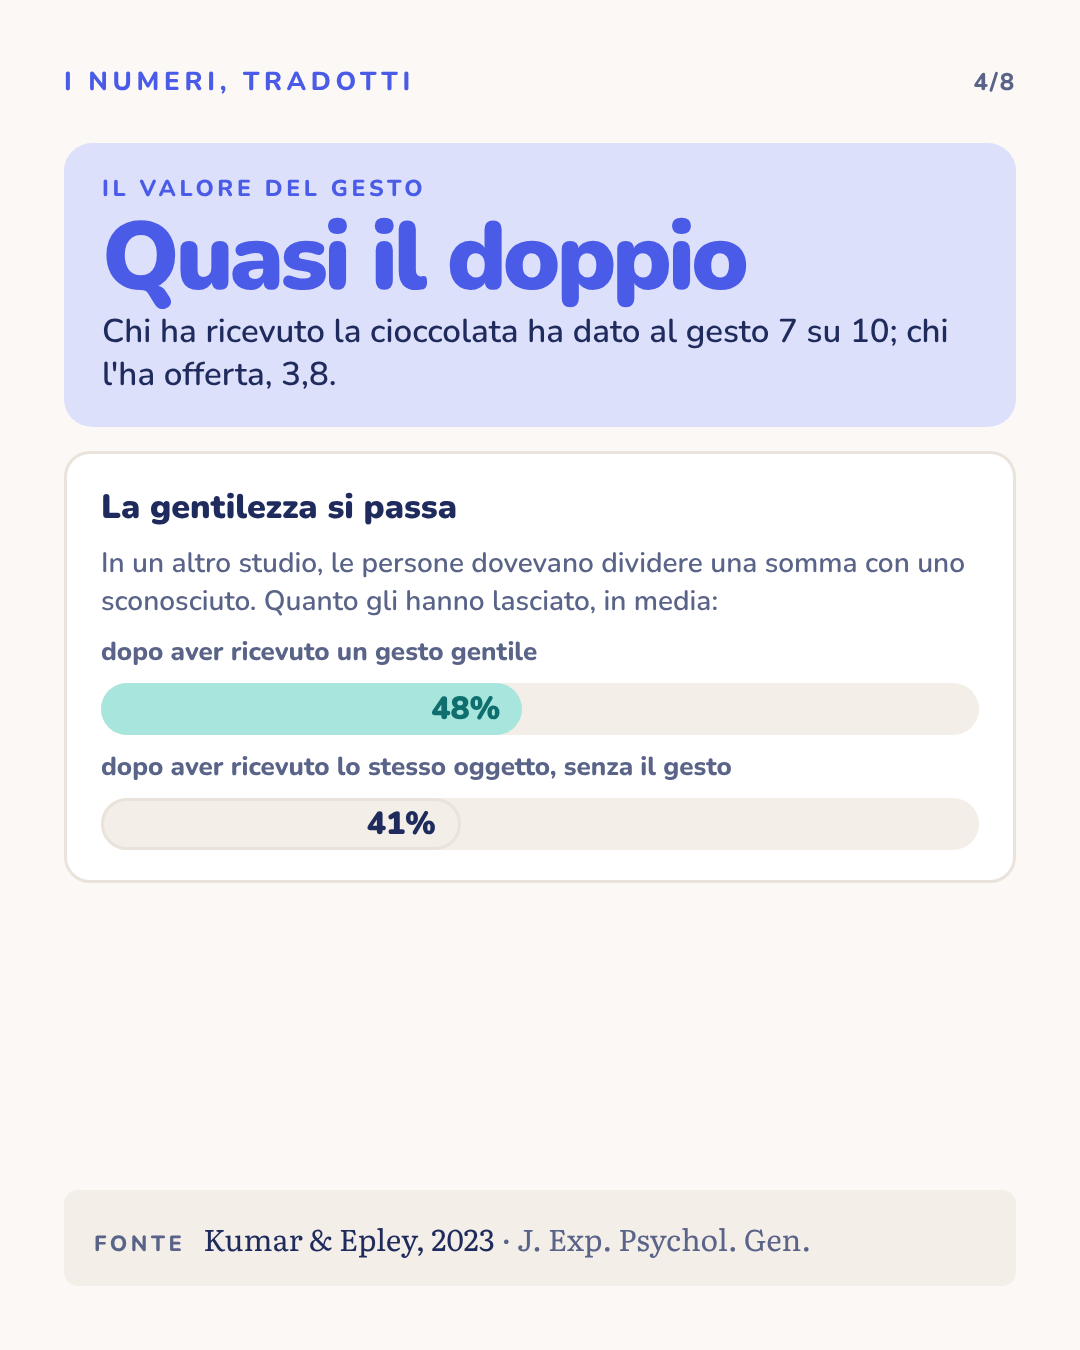
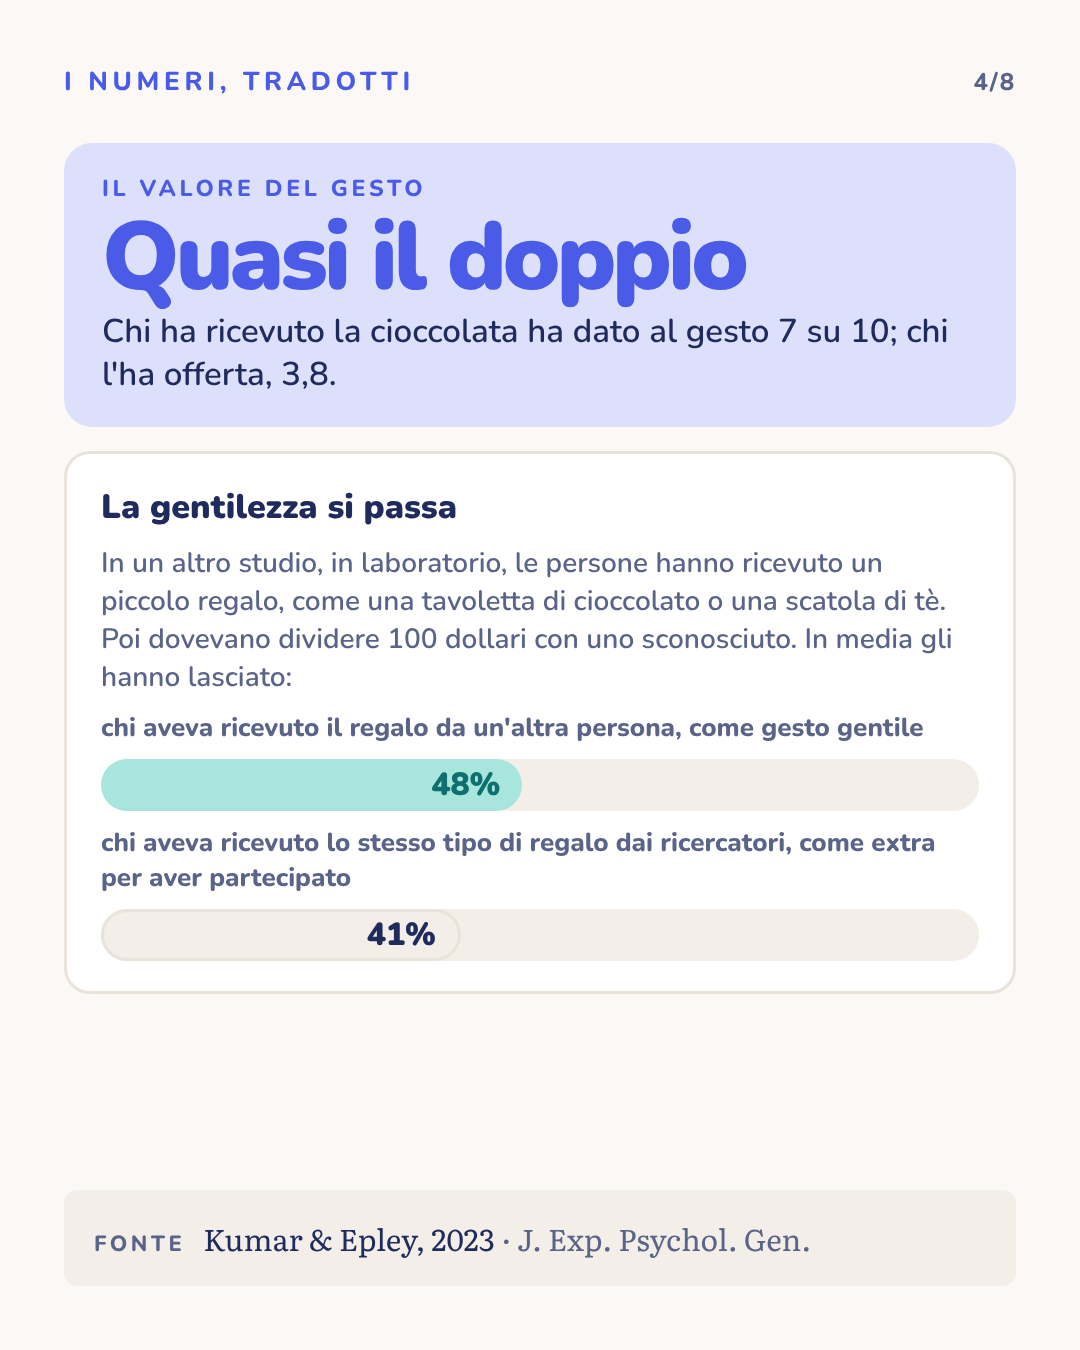
Carosello gentilezza: slide 4 spiega quale regalo e da chi
Claude-Session: https://claude.ai/code/session_01KYQeP73Zvn8PeP6zhkL2Sc

Changed region(s): [[0.0917, 0.4044, 0.8861, 0.7156]]

diff --git a/carosselli/gentilezza/slides.html b/carosselli/gentilezza/slides.html
@@ -155,10 +155,10 @@ svg.shape{position:absolute;z-index:1}
     <div class="stat2 pr"><span class="k">Il valore del gesto</span><span class="num" style="font-size:96px">Quasi il doppio</span><p>Chi ha ricevuto la cioccolata ha dato al gesto 7 su 10; chi l'ha offerta, 3,8.</p></div>
     <div class="cmpb">
       <span class="lb" style="font-size:34px;font-weight:900">La gentilezza si passa</span>
-      <span class="lb" style="font-size:28px;font-weight:600;color:var(--muted)">In un altro studio, le persone dovevano dividere una somma con uno sconosciuto. Quanto gli hanno lasciato, in media:</span>
-      <span class="lb" style="font-size:26px;color:var(--muted)">dopo aver ricevuto un gesto gentile</span>
+      <span class="lb" style="font-size:28px;font-weight:600;color:var(--muted)">In un altro studio, in laboratorio, le persone hanno ricevuto un piccolo regalo, come una tavoletta di cioccolato o una scatola di tè. Poi dovevano dividere 100 dollari con uno sconosciuto. In media gli hanno lasciato:</span>
+      <span class="lb" style="font-size:26px;color:var(--muted)">chi aveva ricevuto il regalo da un'altra persona, come gesto gentile</span>
       <div class="tr"><div class="fl" style="width:48%;background:var(--teal-soft);color:var(--teal-text)">48%</div></div>
-      <span class="lb" style="font-size:26px;color:var(--muted)">dopo aver ricevuto lo stesso oggetto, senza il gesto</span>
+      <span class="lb" style="font-size:26px;color:var(--muted)">chi aveva ricevuto lo stesso tipo di regalo dai ricercatori, come extra per aver partecipato</span>
       <div class="tr"><div class="fl" style="width:41%;background:var(--sunk);color:var(--ink);border:3px solid var(--line)">41%</div></div>
     </div>
   </div>

diff --git a/carosselli/gentilezza/body.html b/carosselli/gentilezza/body.html
@@ -80,10 +80,10 @@
     <div class="stat2 pr"><span class="k">Il valore del gesto</span><span class="num" style="font-size:96px">Quasi il doppio</span><p>Chi ha ricevuto la cioccolata ha dato al gesto 7 su 10; chi l'ha offerta, 3,8.</p></div>
     <div class="cmpb">
       <span class="lb" style="font-size:34px;font-weight:900">La gentilezza si passa</span>
-      <span class="lb" style="font-size:28px;font-weight:600;color:var(--muted)">In un altro studio, le persone dovevano dividere una somma con uno sconosciuto. Quanto gli hanno lasciato, in media:</span>
-      <span class="lb" style="font-size:26px;color:var(--muted)">dopo aver ricevuto un gesto gentile</span>
+      <span class="lb" style="font-size:28px;font-weight:600;color:var(--muted)">In un altro studio, in laboratorio, le persone hanno ricevuto un piccolo regalo, come una tavoletta di cioccolato o una scatola di tè. Poi dovevano dividere 100 dollari con uno sconosciuto. In media gli hanno lasciato:</span>
+      <span class="lb" style="font-size:26px;color:var(--muted)">chi aveva ricevuto il regalo da un'altra persona, come gesto gentile</span>
       <div class="tr"><div class="fl" style="width:48%;background:var(--teal-soft);color:var(--teal-text)">48%</div></div>
-      <span class="lb" style="font-size:26px;color:var(--muted)">dopo aver ricevuto lo stesso oggetto, senza il gesto</span>
+      <span class="lb" style="font-size:26px;color:var(--muted)">chi aveva ricevuto lo stesso tipo di regalo dai ricercatori, come extra per aver partecipato</span>
       <div class="tr"><div class="fl" style="width:41%;background:var(--sunk);color:var(--ink);border:3px solid var(--line)">41%</div></div>
     </div>
   </div>

diff --git a/carosselli/gentilezza/kit-pubblicazione-gentilezza.md b/carosselli/gentilezza/kit-pubblicazione-gentilezza.md
@@ -35,7 +35,7 @@ Qual è il piccolo gesto che farai oggi? 👇
 ```
 📚 Fonte: Kumar A., Epley N. (2023). A little good goes an unexpectedly long way: Underestimating the positive impact of kindness on recipients. Journal of Experimental Psychology: General, 152(1), 236–252. https://doi.org/10.1037/xge0001271
 
-Come abbiamo tradotto i numeri: nello studio della cioccolata calda (75 coppie), chi ha fatto il gesto ha valutato quanto fosse «grande» con una media di 3,8 su una scala da 0 a 10, chi l'ha ricevuto con una media di 7,0: «quasi il doppio» (7,0 ÷ 3,8 ≈ 1,9). Nello studio sulla generosità, le persone dovevano dividere 100 dollari con uno sconosciuto: chi aveva appena ricevuto un gesto gentile ne ha lasciati in media 48, chi aveva ricevuto lo stesso oggetto senza il gesto 41, cioè il 48% contro il 41%.
+Come abbiamo tradotto i numeri: nello studio della cioccolata calda (75 coppie), chi ha fatto il gesto ha valutato quanto fosse «grande» con una media di 3,8 su una scala da 0 a 10, chi l'ha ricevuto con una media di 7,0: «quasi il doppio» (7,0 ÷ 3,8 ≈ 1,9). Nello studio sulla generosità, le persone dovevano dividere 100 dollari con uno sconosciuto: chi aveva appena ricevuto un piccolo regalo da un'altra persona, come gesto gentile, ne ha lasciati in media 48; chi aveva ricevuto lo stesso tipo di regalo dai ricercatori, come extra per aver partecipato, 41: cioè il 48% contro il 41%.
 ```
 
 ## Testo alternativo (una riga per immagine)
@@ -43,7 +43,7 @@ Come abbiamo tradotto i numeri: nello studio della cioccolata calda (75 coppie),
 1. Copertina WeSelf: due cerchi, «chi lo fa» in blu e «chi lo riceve» in verde, uniti da un arco su cui viaggia un piccolo cuore arancione; intorno a chi riceve si allargano tre grandi cerchi concentrici, molto più ampi di quello intorno a chi fa il gesto, e arrivano fino a una terza persona. Testo: «Un piccolo gesto conta più di quanto pensi. C'è chi rinuncia a un gesto gentile perché gli sembra troppo piccolo. Una ricerca ha confrontato l'intensità percepita da chi il gesto lo fa e da chi lo riceve.»
 2. La ricerca: 8 studi negli Stati Uniti su piccoli gesti di gentilezza, come offrire un caffè, dare un passaggio, portare dei fiori, regalare dolci o una cioccolata calda. Dopo ogni gesto, chi lo aveva fatto ha detto quanto pensava che l'altra persona si sarebbe sentita bene; chi lo aveva ricevuto ha detto come si sentiva davvero.
 3. Alla pista di pattinaggio: in un parco, 75 persone hanno regalato una cioccolata calda a uno sconosciuto. Su una scala da 0 a 10, il gesto valeva 3,8 per chi lo ha fatto e 7 per chi lo ha ricevuto. Chi l'ha ricevuta si è sentito meglio di quanto aveva previsto chi l'aveva offerta.
-4. I numeri, tradotti. Il valore del gesto: quasi il doppio; chi ha ricevuto la cioccolata ha dato al gesto 7 su 10, chi l'ha offerta 3,8. La gentilezza si passa: in un altro studio, le persone dovevano dividere una somma con uno sconosciuto; in media gli hanno lasciato il 48% dopo aver ricevuto un gesto gentile e il 41% dopo aver ricevuto lo stesso oggetto senza il gesto (due barre a confronto).
+4. I numeri, tradotti. Il valore del gesto: quasi il doppio; chi ha ricevuto la cioccolata ha dato al gesto 7 su 10, chi l'ha offerta 3,8. La gentilezza si passa: in un altro studio, in laboratorio, le persone hanno ricevuto un piccolo regalo, come una tavoletta di cioccolato o una scatola di tè, e poi dovevano dividere 100 dollari con uno sconosciuto. In media gli hanno lasciato il 48% se avevano ricevuto il regalo da un'altra persona come gesto gentile, e il 41% se avevano ricevuto lo stesso tipo di regalo dai ricercatori come extra per aver partecipato (due barre a confronto).
 5. Perché lo sottovalutiamo: chi riceve sente anche il calore dell'intenzione; il gesto fa bene anche a chi lo fa; più le persone pensavano che il gesto avrebbe fatto piacere, più erano disposte a farlo; in uno studio i partecipanti hanno detto di fare gesti gentili meno spesso di quanto avrebbero voluto.
 6. Mito o realtà: «Un piccolo gesto non cambia niente.» È un mito: in tutti gli studi in cui è stato misurato, chi ha ricevuto un gesto gentile lo ha trovato più importante di quanto pensasse chi lo faceva, e si è sentito meglio del previsto.
 7. I limiti: partecipanti statunitensi; umore misurato subito dopo il gesto, con questionari; in due studi non tutte le persone che avevano ricevuto il gesto hanno risposto; il motivo dell'effetto è stato confermato solo in parte.
@@ -54,7 +54,7 @@ Come abbiamo tradotto i numeri: nello studio della cioccolata calda (75 coppie),
 - **Fonte letta per intero:** il manoscritto accettato («in press») pubblicato dagli autori su PsyArXiv/OSF e fornito dal fondatore (56 pagine). I dati bibliografici della versione pubblicata (volume 152, numero 1, pagine 236–252, gennaio 2023) vengono da Crossref; l'abstract su PubMed (PMID 35980709) coincide con quello del manoscritto.
 - **«8 studi»:** l'articolo riporta gli esperimenti 1a, 1b, 2a, 2b, 3, 4, 5a e 5b. Gli studi 5a e 5b misurano solo le aspettative e la disponibilità a fare il gesto, non l'esperienza di chi lo riceve: per questo la slide 6 dice «in tutti gli studi in cui è stato misurato».
 - **Cioccolata calda (studio 2a):** 84 persone reclutate in una pista di pattinaggio di un parco cittadino; 9 hanno tenuto la cioccolata, 75 l'hanno regalata. Valutazione del gesto: 3,76 per chi l'ha offerta, 7,00 per chi l'ha ricevuta.
-- **48% contro 41% (studio 4):** dollari lasciati a uno sconosciuto su 100 da dividere, 48,02 contro 41,20 in media; chi aveva fatto il gesto ha previsto, in media, 40,85.
+- **48% contro 41% (studio 4):** dollari lasciati a uno sconosciuto su 100 da dividere, 48,02 contro 41,20 in media; chi aveva fatto il gesto ha previsto, in media, 40,85. Il regalo era uno degli oggetti del «negozio del laboratorio» (tavoletta di cioccolato equosolidale, popcorn, tè, cracker, burrocacao). Nel gruppo di confronto, le persone hanno ricevuto il regalo come compenso extra inatteso e lo hanno scelto da sole.
 - **«Molti vorrebbero farlo più spesso»:** studio 1a (106 studenti di un master in gestione d'impresa, 192 gesti), risposta media sotto lo zero su una scala da «molto meno spesso di quanto vorrei» a «molto più spesso».
 - **Nello studio 5b** l'interesse a fare il gesto è risultato più alto quando le persone pensavano al calore del gesto, ma la differenza nelle scelte reali (60% contro 50%) non è risultata statisticamente chiara: per questo non è sulle slide.
 - **Tema non sensibile:** nessun rimando di supporto necessario.
